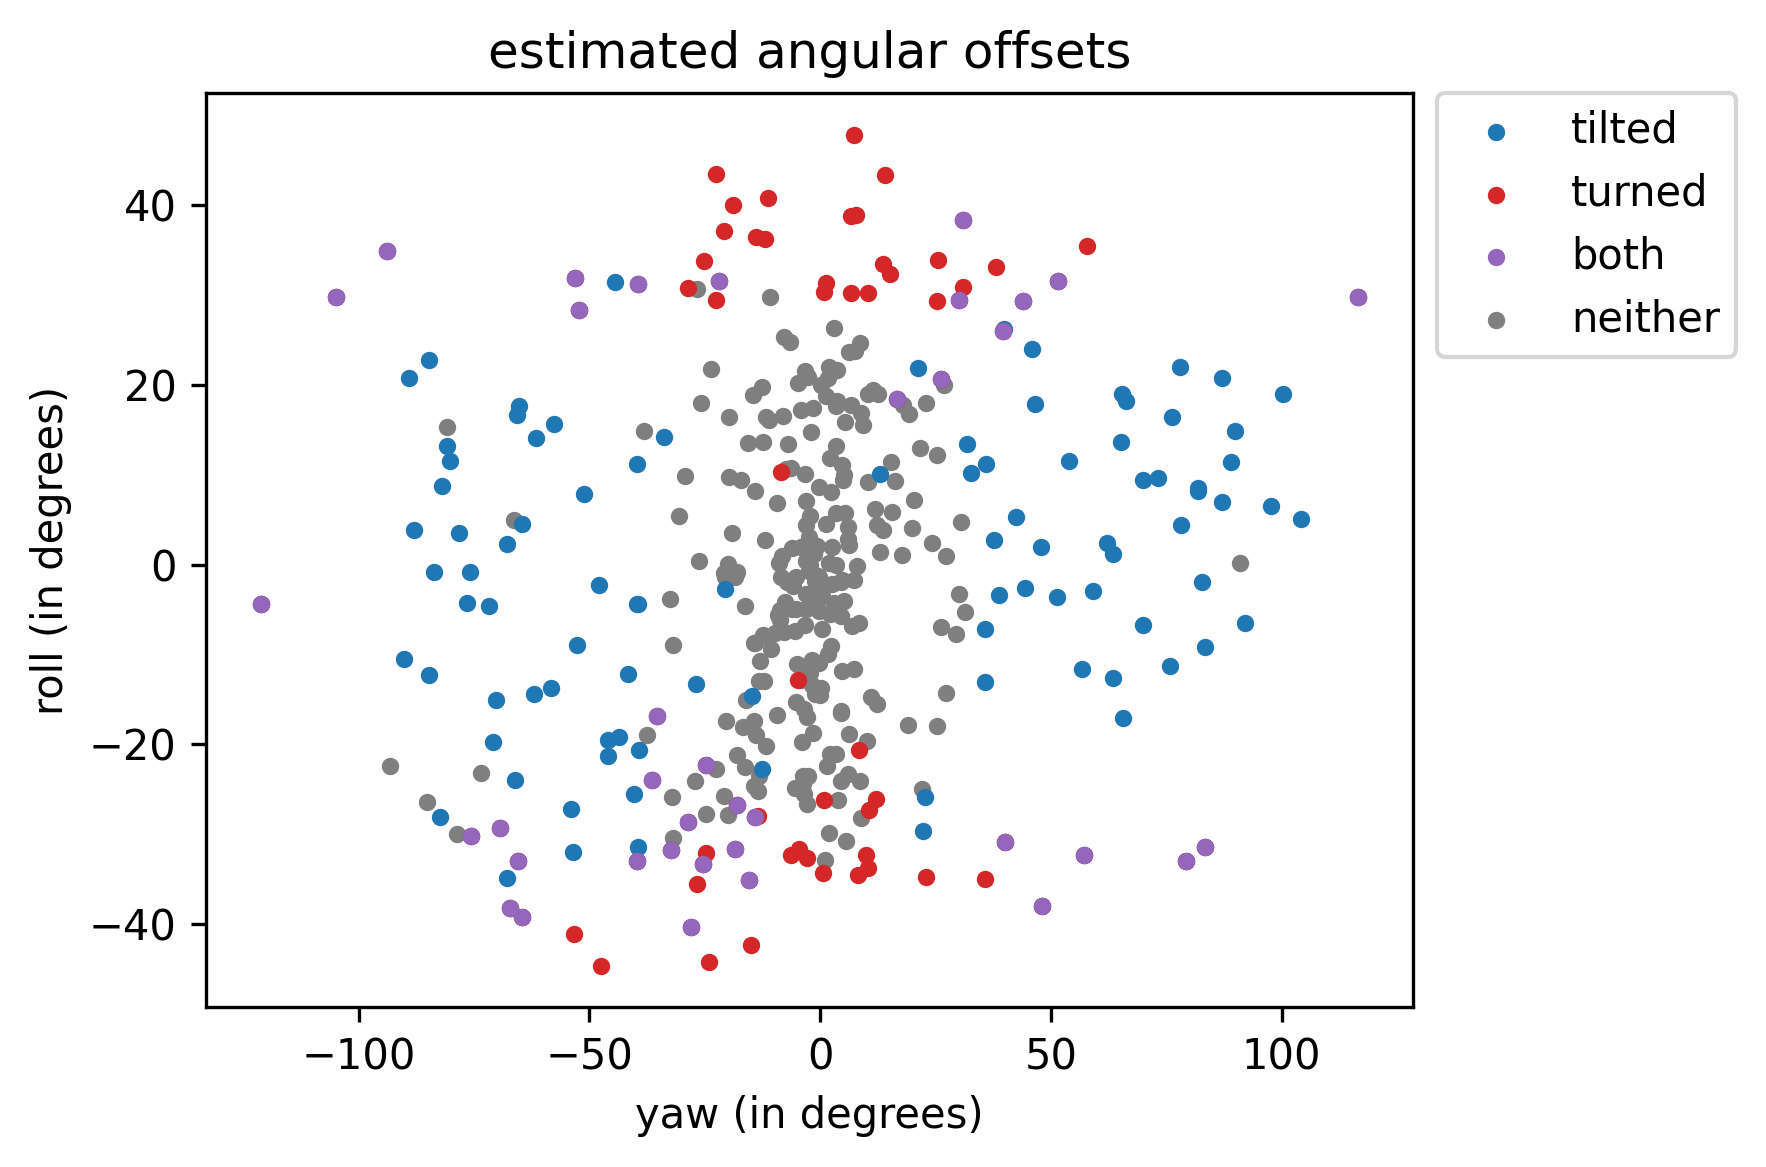
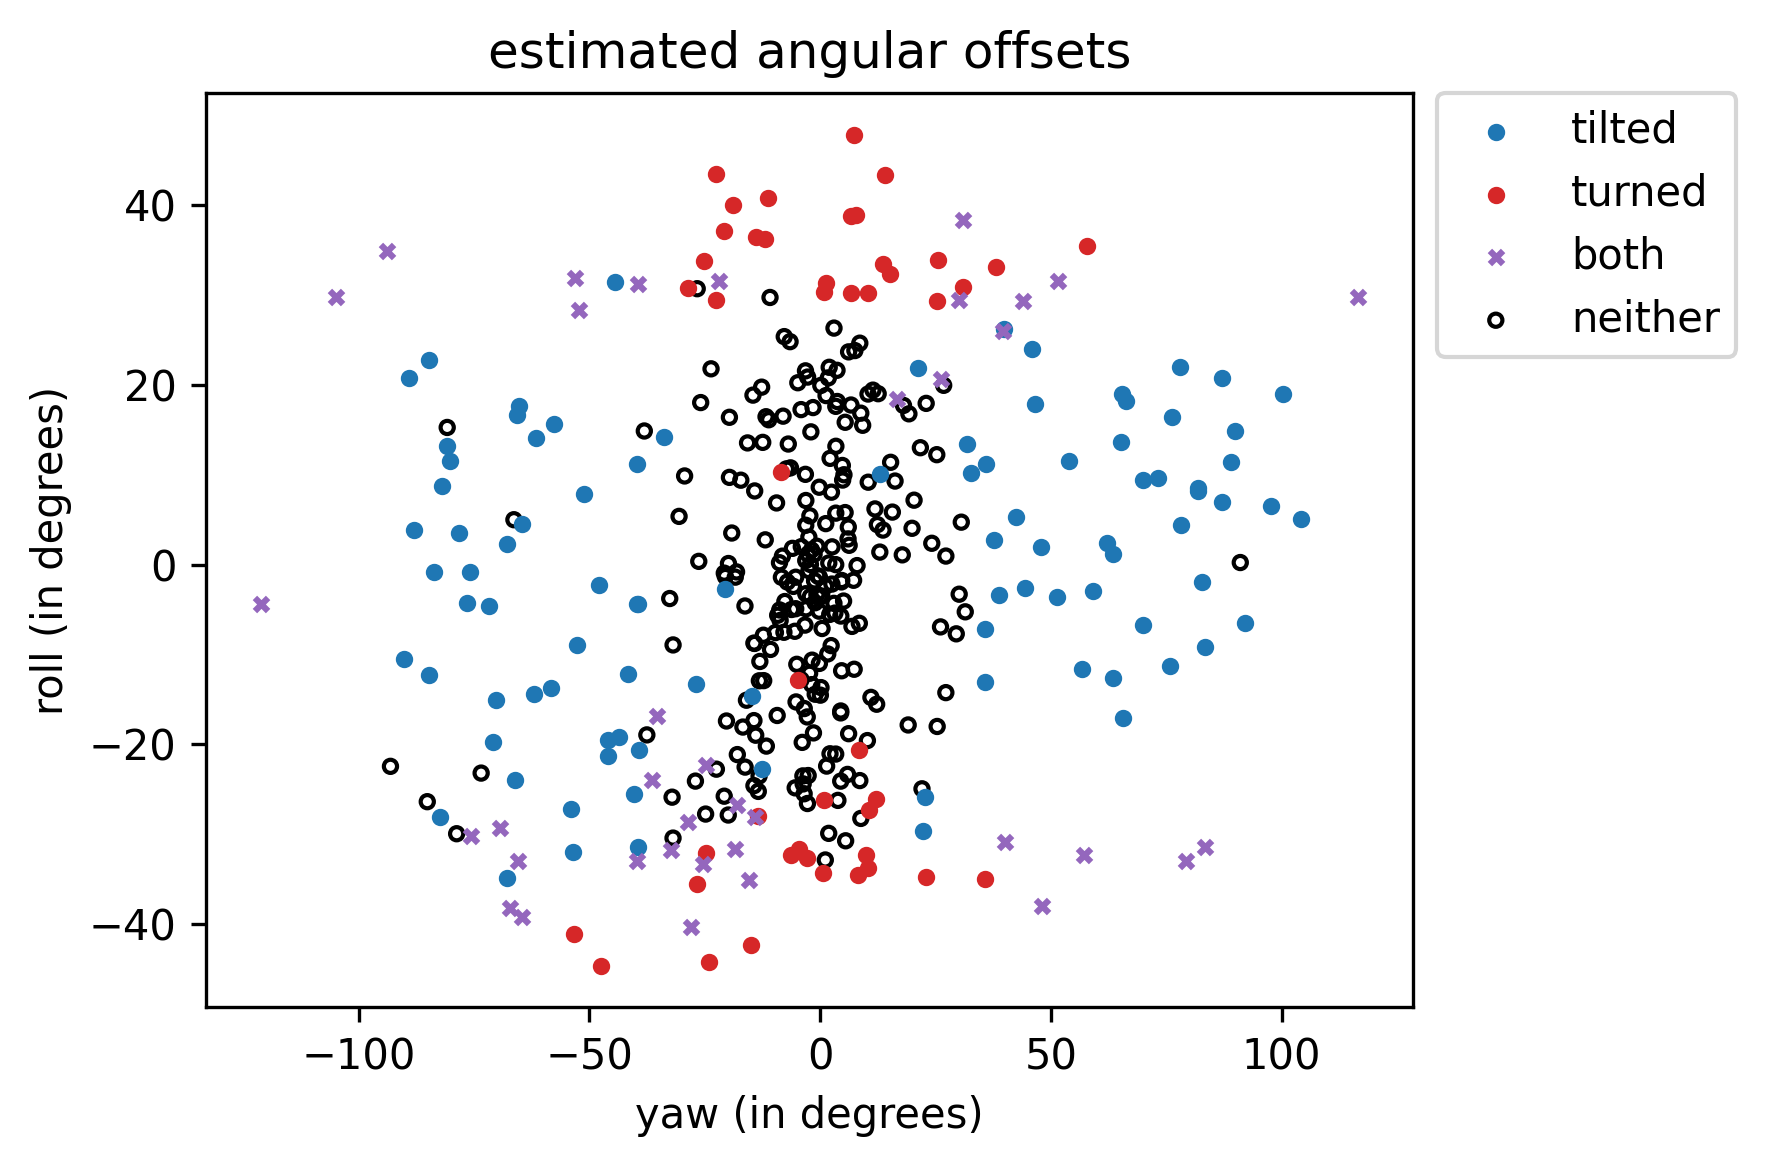
revised roll/yaw plot

diff --git a/src/main/plot_roll_yaw.py b/src/main/plot_roll_yaw.py
@@ -11,19 +11,21 @@ import matplotlib.pyplot as plt
 from util.local_cache import cache
 from util.pre import to_deg
 
-savefig = True
+savefig = False
 
 df = cache.get_meta('decorated')
 
 def plot(use_abs=False,savefig=False):
     label_pre = 'absolute ' if use_abs else ''
     col_suff = '_abs' if use_abs else ''
-    tilted = df['tilted'] == 1
-    turned = df['turned'] == 1
-    both = tilted & turned
-    neither = ~(tilted | turned)
+    tilt = df['tilted'] == 1
+    turn = df['turned'] == 1
+    tilted = tilt & ~turn
+    turned = turn & ~tilt
+    both = tilt & turn
+    neither = ~tilt & ~turn
     for (mask, color, desc) in [
-            (neither, 'tab:gray', 'neither'),
+            (neither, 'black', 'neither'),
             (tilted, 'tab:blue', 'tilted'),
             (turned, 'tab:red', 'turned'),
             (both, 'tab:purple', 'both'),
@@ -33,8 +35,12 @@ def plot(use_abs=False,savefig=False):
             tmp[f'yaw{col_suff}'] * to_deg,
             tmp[f'roll{col_suff}'] * to_deg,
             s=10,
-            c=color,
+            # c=color,
+            marker='x' if desc == 'both' else 'o',
             label=desc,
+            edgecolors=color,
+            facecolors='none' if desc == 'neither' else color,
+            # marker='$O$' if desc == 'neither' else 'o',
         )
     plt.title('estimated angular offsets')
     plt.xlabel(f'{label_pre}yaw (in degrees)')
